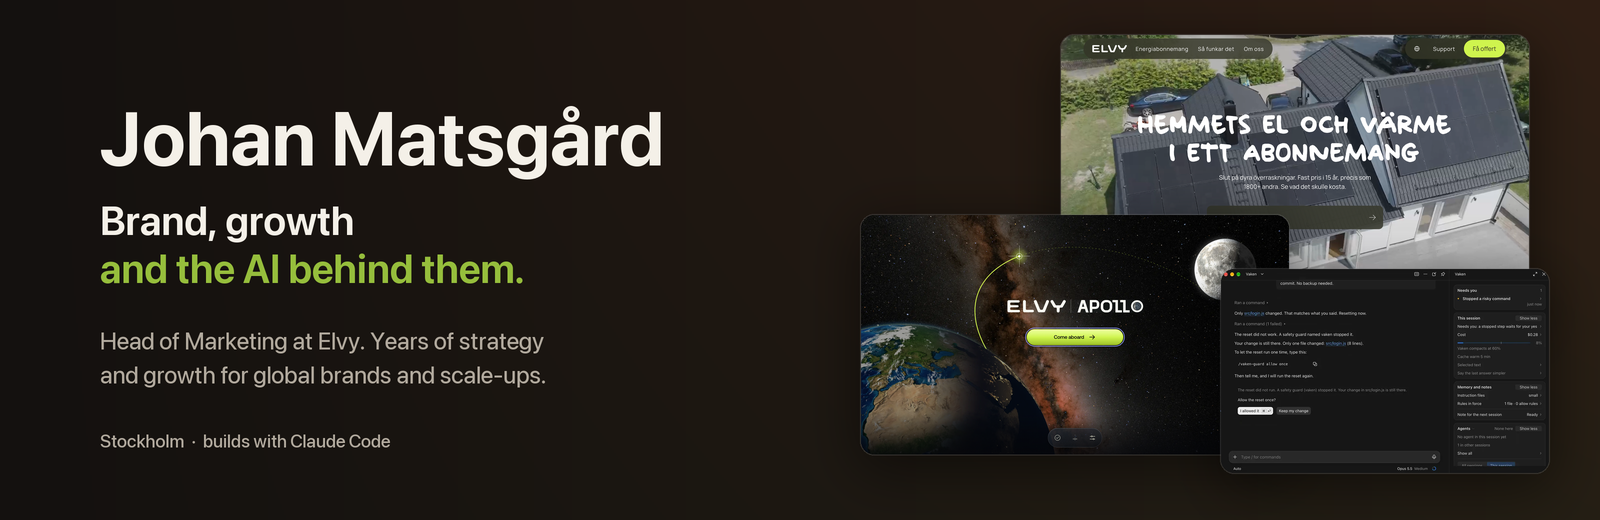
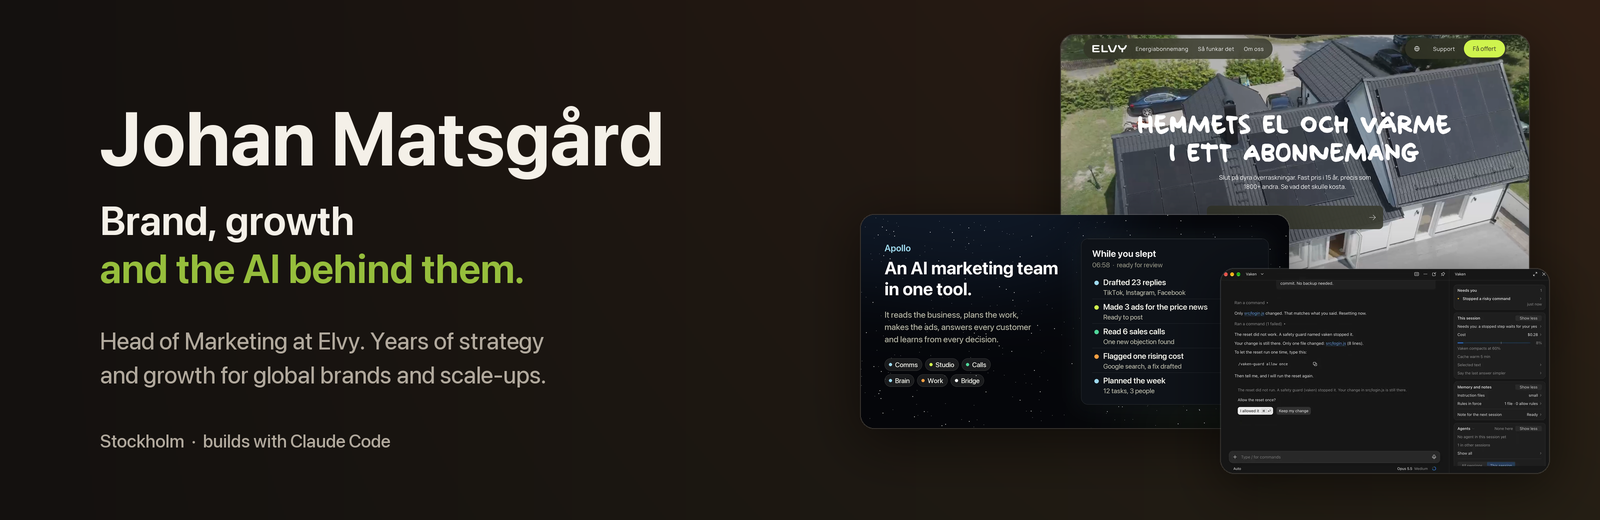
Profile: Apollo feature cards and new hero, login page removed

Changed region(s): [[0.5312, 0.4, 0.7812, 0.8615], [0.7188, 0.4308, 0.75, 0.4615]]

diff --git a/README.md b/README.md
@@ -10,7 +10,7 @@ At Elvy I own the brand and everything we say to customers: ads, partnerships, t
 
 <table>
 <tr>
-<td width="50%"><img src="assets/latest-apollo.png" alt="Apollo's new start page: Earth, the Moon and a flight path"><br><b>Apollo has a new look.</b> Our AI marketing platform, now built by a team. <a href="#apollo-ai-that-takes-elvys-marketing-further">See all six rooms</a></td>
+<td width="50%"><img src="assets/latest-apollo.png" alt="Apollo: an AI marketing team in one tool"><br><b>Apollo, the full picture.</b> Our AI marketing platform, now built by a team. <a href="#apollo-ai-that-takes-elvys-marketing-further">See what it does</a></td>
 <td width="50%"><picture><source media="(prefers-color-scheme: dark)" srcset="assets/latest-vaken-dark.png"><img src="assets/latest-vaken-light.png" alt="vaken in Claude Code Desktop"></picture><br><b>vaken is out.</b> My open-source plugin for Claude Code. <a href="#vaken-mission-control-for-claude-code">See vaken</a></td>
 </tr>
 </table>
@@ -46,21 +46,31 @@ Stack: Next.js (App Router), React 19, TypeScript, Tailwind v4, next-intl, React
 
 ## Apollo: AI that takes Elvy's marketing further
 
-<img src="assets/apollo-door.webp" alt="Apollo's start page: Earth turns, a flight path draws to the Moon" width="100%">
+<img src="assets/apollo-hero.webp" alt="Apollo: an AI marketing team in one tool. While you slept it drafted replies, made ads, read sales calls, flagged a rising cost and planned the week." width="100%">
 
 **An AI marketing team in one tool. Every channel, every customer number and every decision in one place.**
 
-Apollo started as my own project: one marketing lead with the output of a full in-house team plus a performance agency. It now has a team, and we build it together. It reads the business every morning, plans the work, writes in the brand's voice, answers customers and learns from every call we make. People decide; Apollo does the rest of the thinking.
+Apollo started as my own project: one marketing lead with the output of a full in-house team plus a performance agency. It now has a team, and we build it together. People decide; Apollo does the rest of the thinking.
+
+### What Apollo does
+
+<table>
+<tr><td width="50%"><img src="assets/apollo-f-morning.png" alt="Reads the business every morning"><br><b>Reads the business every morning.</b> Says what changed overnight, why, and what to do first.</td><td width="50%"><img src="assets/apollo-f-comments.png" alt="Answers every comment"><br><b>Answers every comment.</b> Reads TikTok, Instagram and Facebook and drafts each reply in the brand's voice. One tap to send.</td></tr>
+<tr><td width="50%"><img src="assets/apollo-f-ads.png" alt="Makes ads in the moment"><br><b>Makes ads in the moment.</b> Spots the news that matters to customers, writes the ad and posts it to Meta, TikTok and Google.</td><td width="50%"><img src="assets/apollo-f-brain.png" alt="One brain, connected to everything"><br><b>One brain, connected to everything.</b> HubSpot, the ad platforms, the website, meetings, sales calls, Slack and Drive feed one memory.</td></tr>
+<tr><td width="50%"><img src="assets/apollo-f-calls-sales.png" alt="Listens to every sales call"><br><b>Listens to every sales call.</b> Learns why people sign or wait, and writes the answers into the site and the sales script.</td><td width="50%"><img src="assets/apollo-f-decide.png" alt="Brings decisions with evidence"><br><b>Brings decisions with evidence.</b> A critic attacks every proposal first. Every call gets a verdict, and Apollo keeps score.</td></tr>
+<tr><td width="50%"><img src="assets/apollo-f-feedback.png" alt="Teaches the ad platforms"><br><b>Teaches the ad platforms.</b> Tells Google, Meta and TikTok which clicks became customers, so they find more like them.</td><td width="50%"><img src="assets/apollo-f-funnel.png" alt="Follows every customer to the roof"><br><b>Follows every customer to the roof.</b> From the first click to signed and installed, measured against the year's goal.</td></tr>
+<tr><td width="50%"><img src="assets/apollo-f-tasks.png" alt="Turns a sentence into a task"><br><b>Turns a sentence into a task.</b> Say it in Slack or in Apollo. It picks the day, the owner and the room, and plans the week by load.</td><td width="50%"><img src="assets/apollo-f-whatif.png" alt="Answers what-if before you spend"><br><b>Answers what-if before you spend.</b> Move a slider and see the customers it brings, from your own numbers.</td></tr>
+<tr><td width="50%"><img src="assets/apollo-f-brief.png" alt="Writes the weekly brief"><br><b>Writes the weekly brief.</b> Numbers against the target, what moved, what is blocked and next week, ready for leadership.</td><td width="50%"><img src="assets/apollo-f-tv.png" alt="Puts the week on the office TV"><br><b>Puts the week on the office TV.</b> Leads, signings and installs, live for the whole company.</td></tr>
+</table>
+<sub>Pictures show dummy data.</sub>
+
+<details>
+<summary><b>Inside the app: Bridge, Work, Studio, Calls, Comms and Brain</b></summary>
+<br>
 
 <img src="assets/apollo-rooms.png" alt="Six Apollo rooms: Bridge, Work, Studio, Calls, Comms and Brain" width="100%">
 <sub>The real interface. Numbers changed and names removed, so no figure here is Elvy's.</sub>
-
-- **Bridge.** The whole business at a glance: pace to the year's goal, cost of a customer, and the path from visit to signed customer. Each morning it says what changed, why, and what to do first.
-- **Work.** Plans the week and ranks every task by what moves the goal, for each person on the team.
-- **Studio.** Writes ads, posts and emails in the brand's voice, learns new voice rules, and follows every draft until it runs as a live ad.
-- **Calls.** Brings the decisions to you with the evidence, across Meta, Google, TikTok and the website. Every call gets a verdict, and Apollo keeps a track record of what worked.
-- **Comms.** Listens to every comment on TikTok, Instagram and Facebook, drafts the replies, and makes sure no question goes unanswered.
-- **Brain.** One memory behind every room: what it was told, every decision, and what worked. Meetings and sales calls feed it too, so its advice is built on what customers actually say.
+</details>
 
 Marketing is the first part of Elvy where we let AI take us this far. We approach every other part of Elvy the same way.
 
